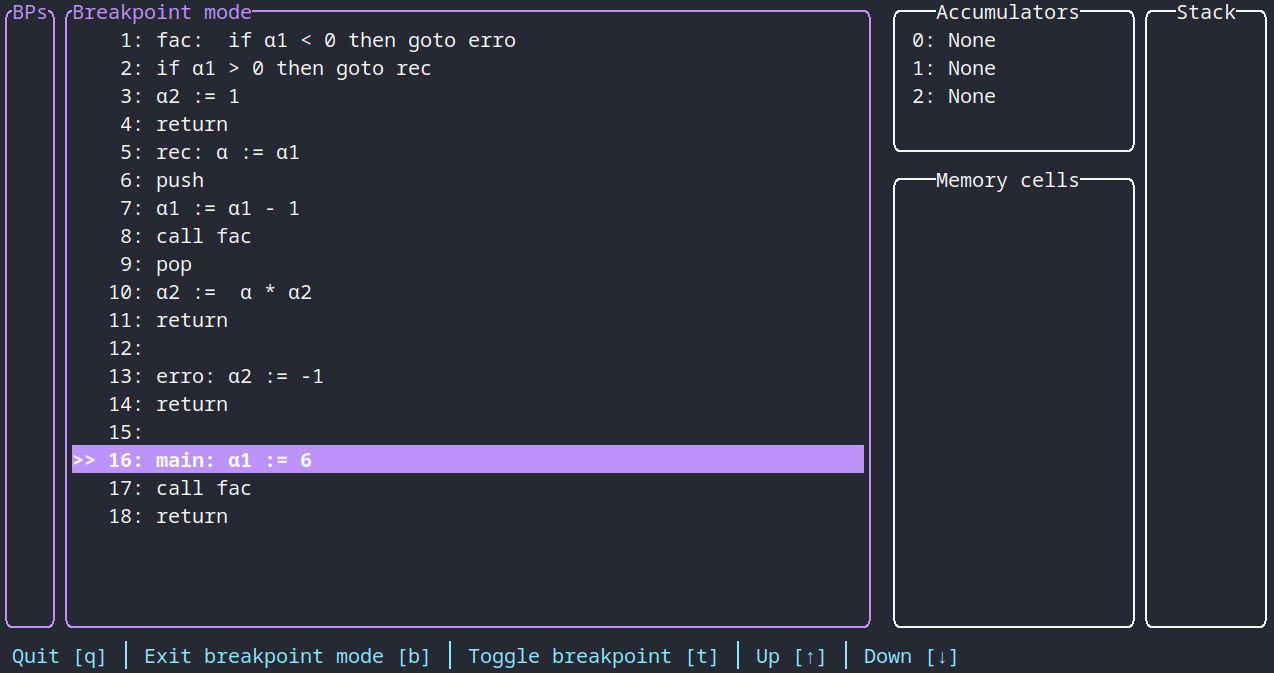
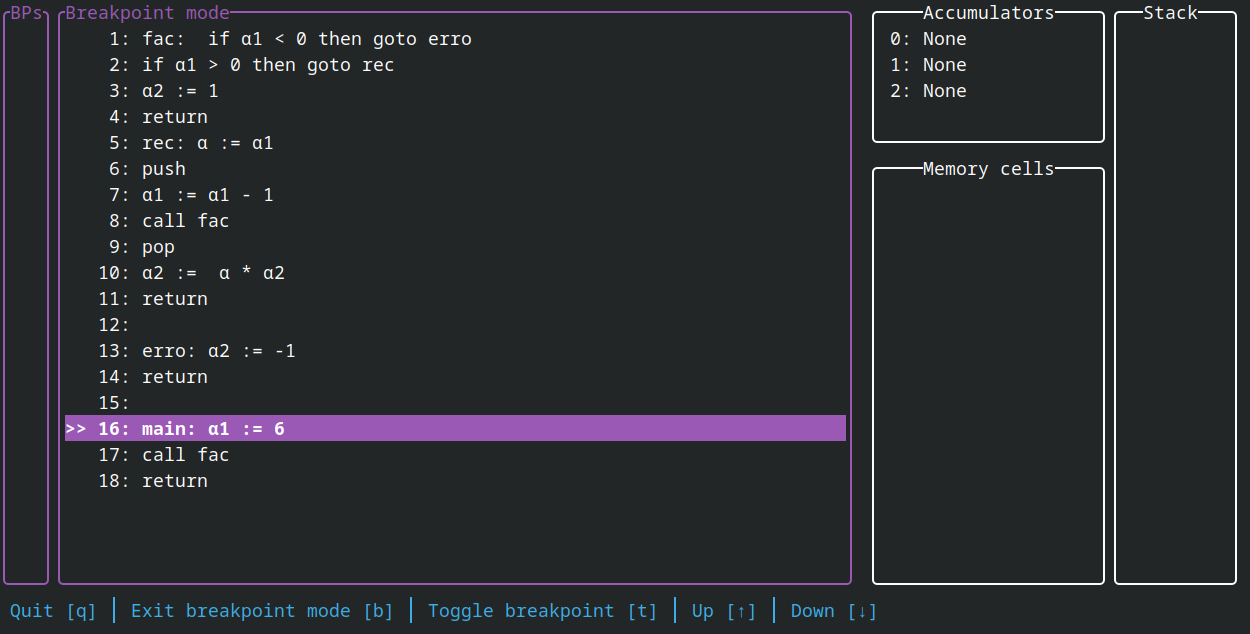
Fixed color mismatch on other terminals then my own

Changed region(s): [[0.0, 0.0, 0.9984, 1.0]]

diff --git a/src/tui/ui.rs b/src/tui/ui.rs
@@ -1,24 +1,17 @@
 use ratatui::{
     prelude::{Alignment, Backend, Constraint, Direction, Layout, Rect},
-    style::{Color, Modifier, Style},
+    style::{Modifier, Style},
     text::{Line, Span, Text},
     widgets::{Block, BorderType, Borders, Clear, List, ListItem, Paragraph, Tabs},
     Frame,
 };
 use text_align::TextAlign;
 
-use super::{App, State};
+use super::{App, State, KEY_HINTS_COLOR, ERROR_COLOR, BREAKPOINT_ACCENT_COLOR, CODE_AREA_DEFAULT_COLOR, LIST_ITEM_HIGHLIGHT_COLOR, EXECUTION_FINISHED_POPUP_COLOR};
 
 /// Draw the ui
 #[allow(clippy::too_many_lines)]
 pub fn draw<B: Backend>(f: &mut Frame<B>, app: &mut App) {
-    // color config
-    let breakpoint_accent_color = Color::Blue;
-    let error_color = Color::Red;
-    let code_area_default_color = Color::Green;
-    let key_hints_color = Color::Cyan;
-    let current_instruction_highlight_color = Color::DarkGray;
-    let execution_finished_popup_color = Color::Green;
 
     let global_chunks = Layout::default()
         .direction(Direction::Vertical)
@@ -41,7 +34,7 @@ pub fn draw<B: Backend>(f: &mut Frame<B>, app: &mut App) {
     // Key hints
     let key_hints = Tabs::new(app.active_keybind_hints())
         .block(Block::default().borders(Borders::NONE))
-        .style(Style::default().fg(key_hints_color));
+        .style(Style::default().fg(KEY_HINTS_COLOR));
     f.render_widget(key_hints, global_chunks[1]);
 
     let right_chunks = Layout::default()
@@ -55,14 +48,14 @@ pub fn draw<B: Backend>(f: &mut Frame<B>, app: &mut App) {
         .title_alignment(Alignment::Left)
         .border_type(BorderType::Rounded);
     if let State::Errored(_) = app.state {
-        code_area = code_area.border_style(Style::default().fg(error_color));
+        code_area = code_area.border_style(Style::default().fg(ERROR_COLOR));
     } else if let State::Breakpoints(_, _) = app.state {
         code_area = code_area
-            .border_style(Style::default().fg(breakpoint_accent_color))
+            .border_style(Style::default().fg(BREAKPOINT_ACCENT_COLOR))
             .title("Breakpoint mode");
     } else {
         code_area = code_area
-            .border_style(Style::default().fg(code_area_default_color))
+            .border_style(Style::default().fg(CODE_AREA_DEFAULT_COLOR))
             .title(format!("File: {}", app.filename.clone()));
     }
 
@@ -81,11 +74,11 @@ pub fn draw<B: Backend>(f: &mut Frame<B>, app: &mut App) {
         .block(code_area)
         .highlight_style(if let State::Breakpoints(_, _) = app.state {
             Style::default()
-                .bg(breakpoint_accent_color)
+                .bg(BREAKPOINT_ACCENT_COLOR)
                 .add_modifier(Modifier::BOLD)
         } else {
             Style::default()
-                .bg(current_instruction_highlight_color)
+                .bg(LIST_ITEM_HIGHLIGHT_COLOR)
                 .add_modifier(Modifier::BOLD)
         })
         .highlight_symbol(">> ");
@@ -101,7 +94,7 @@ pub fn draw<B: Backend>(f: &mut Frame<B>, app: &mut App) {
     let breakpoint_area = Block::default()
         .borders(Borders::ALL)
         .title("BPs")
-        .border_style(Style::default().fg(breakpoint_accent_color))
+        .border_style(Style::default().fg(BREAKPOINT_ACCENT_COLOR))
         .title_alignment(Alignment::Center)
         .border_type(BorderType::Rounded);
 
@@ -118,7 +111,7 @@ pub fn draw<B: Backend>(f: &mut Frame<B>, app: &mut App) {
             };
             ListItem::new(Text::styled(
                 v.center_align(chunks[0].width.saturating_sub(2) as usize),
-                Style::default().fg(breakpoint_accent_color),
+                Style::default().fg(BREAKPOINT_ACCENT_COLOR),
             ))
         })
         .collect();
@@ -167,7 +160,7 @@ pub fn draw<B: Backend>(f: &mut Frame<B>, app: &mut App) {
         let block = Block::default()
             .title("Execution finished!")
             .borders(Borders::ALL)
-            .border_style(Style::default().fg(execution_finished_popup_color));
+            .border_style(Style::default().fg(EXECUTION_FINISHED_POPUP_COLOR));
         let area = centered_rect(60, 20, f.size());
         let text = Paragraph::new(
             "Press [q] to exit.\nPress [s] to reset to start.\nPress [d] to dismiss this message.",
@@ -182,7 +175,7 @@ pub fn draw<B: Backend>(f: &mut Frame<B>, app: &mut App) {
         let block = Block::default()
             .title("Runtime error!")
             .borders(Borders::ALL)
-            .border_style(Style::default().fg(error_color));
+            .border_style(Style::default().fg(ERROR_COLOR));
         let area = centered_rect(60, 30, f.size());
         let text = Paragraph::new(format!(
             "Execution can not continue due to the following problem:\n{}\n\nPress [q] to exit.",

diff --git a/src/tui/content.rs b/src/tui/content.rs
@@ -1,11 +1,13 @@
 use std::collections::HashMap;
 
 use ratatui::{
-    style::{Color, Style},
+    style::Style,
     widgets::{ListItem, ListState},
 };
 
 use crate::runtime::RuntimeArgs;
+
+use super::LIST_ITEM_HIGHLIGHT_COLOR;
 
 /// Used to store the instructions and to remember what instruction should currently be highlighted.
 #[derive(Debug, Clone)]
@@ -226,7 +228,7 @@ impl MemoryListsManager {
             let last_stack = new_stack
                 .pop()
                 .unwrap()
-                .style(Style::default().bg(Color::DarkGray));
+                .style(Style::default().bg(LIST_ITEM_HIGHLIGHT_COLOR));
             new_stack.push(last_stack);
         }
         self.stack = new_stack;
@@ -238,7 +240,7 @@ impl MemoryListsManager {
         for acc in &self.accumulators {
             let mut item = ListItem::new(acc.1 .0.clone());
             if acc.1 .1 {
-                item = item.style(Style::default().bg(Color::DarkGray));
+                item = item.style(Style::default().bg(LIST_ITEM_HIGHLIGHT_COLOR));
             }
             list.push((item, acc.0));
         }
@@ -252,7 +254,7 @@ impl MemoryListsManager {
         for cell in &self.memory_cells {
             let mut item = ListItem::new(cell.1 .0.clone());
             if cell.1 .1 {
-                item = item.style(Style::default().bg(Color::DarkGray));
+                item = item.style(Style::default().bg(LIST_ITEM_HIGHLIGHT_COLOR));
             }
             list.push((item, cell.0));
         }

diff --git a/src/tui/mod.rs b/src/tui/mod.rs
@@ -4,7 +4,7 @@ use crossterm::event::{self, Event, KeyCode};
 use miette::{IntoDiagnostic, Result};
 use ratatui::{
     backend::Backend,
-    style::Style,
+    style::{Style, Color},
     text::{Line, Span},
     Terminal,
 };
@@ -20,6 +20,14 @@ use self::{
 mod content;
 /// Drawing of the ui
 mod ui;
+
+// color config
+const BREAKPOINT_ACCENT_COLOR: Color = Color::Magenta;
+const ERROR_COLOR: Color = Color::Red;
+const CODE_AREA_DEFAULT_COLOR: Color = Color::Green;
+const KEY_HINTS_COLOR: Color = Color::LightBlue;
+const LIST_ITEM_HIGHLIGHT_COLOR: Color = Color::Rgb(98, 114, 164);
+const EXECUTION_FINISHED_POPUP_COLOR: Color = Color::Green;
 
 #[derive(Debug, PartialEq, Clone)]
 enum State {
